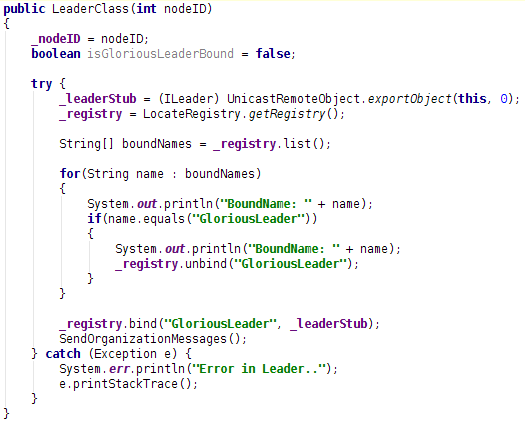
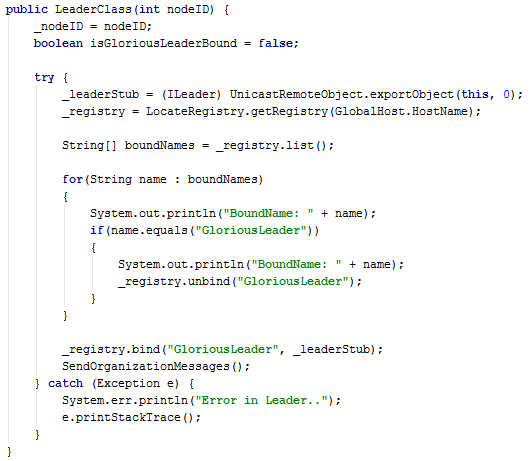
New pictures of all getRegistry() functions

diff --git a/03_RMI/Code/TestRmi/src/example/hello/Server.java b/03_RMI/Code/TestRmi/src/example/hello/Server.java
@@ -20,8 +20,7 @@ public class Server implements Hello {
 
     private int _nextNodeId;
 
-    public Server(String id, int nodeNum, int _currentLeader)
-    {
+    public Server(String id, int nodeNum, int _currentLeader) {
         _id = id;
         _nodeNum = nodeNum;
         _isElection = false;
@@ -34,13 +33,10 @@ public class Server implements Hello {
             _helloStub = (Hello)UnicastRemoteObject.exportObject(this, 0);
             _registry = LocateRegistry.getRegistry(GlobalHost.HostName);
             _registry.bind("QuestNode" + _nodeNum, _helloStub);
-
-        } catch (Exception e)
-        {
+        } catch (Exception e) {
             System.err.println("Server exception: " + e.toString());
             //e.printStackTrace();
         }
-
     }
 
     public String sayHello()
@@ -93,12 +89,9 @@ public class Server implements Hello {
     }
 
 
-    public void RingElectionFunction(ArrayList<Integer> nodeIds)
-    {
+    public void RingElectionFunction(ArrayList<Integer> nodeIds) {
         boolean ringComplete = false;
         int futureLeader = -1;
-
-
         if(nodeIds!=null) {
             //Find out if ring is complete
             for (Integer s : nodeIds) {
@@ -106,31 +99,24 @@ public class Server implements Hello {
                     ringComplete = true;
                     break;
                 }
-
             }
         }
-        if(ringComplete==true)
-        {
+        if(ringComplete==true) {
             System.out.println("Ring is complete in node " + _nodeNum);
             for(int node:nodeIds) {
                 if(node > futureLeader) {
                     futureLeader = node;
                 }
             }
-
             try {
                 Registry registry = LocateRegistry.getRegistry(GlobalHost.HostName);
 
                 String registryEntry = "QuestNode" + _nextNodeId;
                 Hello serverStub = (Hello) registry.lookup(registryEntry);
-
                 RingElectionSetNewLeader(futureLeader);
-
-
             } catch (Exception e) {
                 e.printStackTrace();
             }
-
         } else {
             //Ring is not complete
             System.out.println("Ring is not complete");
@@ -142,12 +128,10 @@ public class Server implements Hello {
                 Hello serverStub = (Hello) registry.lookup(registryEntry);
 
                 nodeIds.add(_nodeNum);
-
                 System.out.println("Continuing election from node " + _nodeNum + " to node " + _nextNodeId);
                 serverStub.RingElectionFunction(nodeIds);
             } catch (Exception e) {
                 e.printStackTrace();
-
             }
         }
     }
@@ -216,8 +200,7 @@ public class Server implements Hello {
         System.out.println("Questing node: " + _nodeNum);
         int responseID = -1;
 
-        for(int i = _nodeNum + 1; i <= 10; i++)
-        {
+        for(int i = _nodeNum + 1; i <= 10; i++) {
             try {
                 Registry registry = LocateRegistry.getRegistry(GlobalHost.HostName);
 
@@ -228,14 +211,12 @@ public class Server implements Hello {
                 System.err.println("QuestFunction on ID " + responseID + e.toString());                
             }
         }
-
         //I have the greatest id
         if(responseID == -1) {
             //declare winner
             System.out.println("I'm leader " + _nodeNum);
             SetLeader();
         }
-
         //someone is taking over
         return 1;
     }

diff --git a/03_RMI/Code/TestRmi/src/example/hello/LeaderClass.java b/03_RMI/Code/TestRmi/src/example/hello/LeaderClass.java
@@ -13,8 +13,7 @@ public class LeaderClass implements ILeader{
     private ILeader _leaderStub;
 
 
-    public LeaderClass(int nodeID)
-    {
+    public LeaderClass(int nodeID) {
         _nodeID = nodeID;
         boolean isGloriousLeaderBound = false;
 
@@ -42,8 +41,7 @@ public class LeaderClass implements ILeader{
         }
     }
 
-    public String GloriousLeaderFunction(String data)
-    {
+    public String GloriousLeaderFunction(String data) {
         return "Leader on node: " + _nodeID + "With data: " + data;
     }
 
